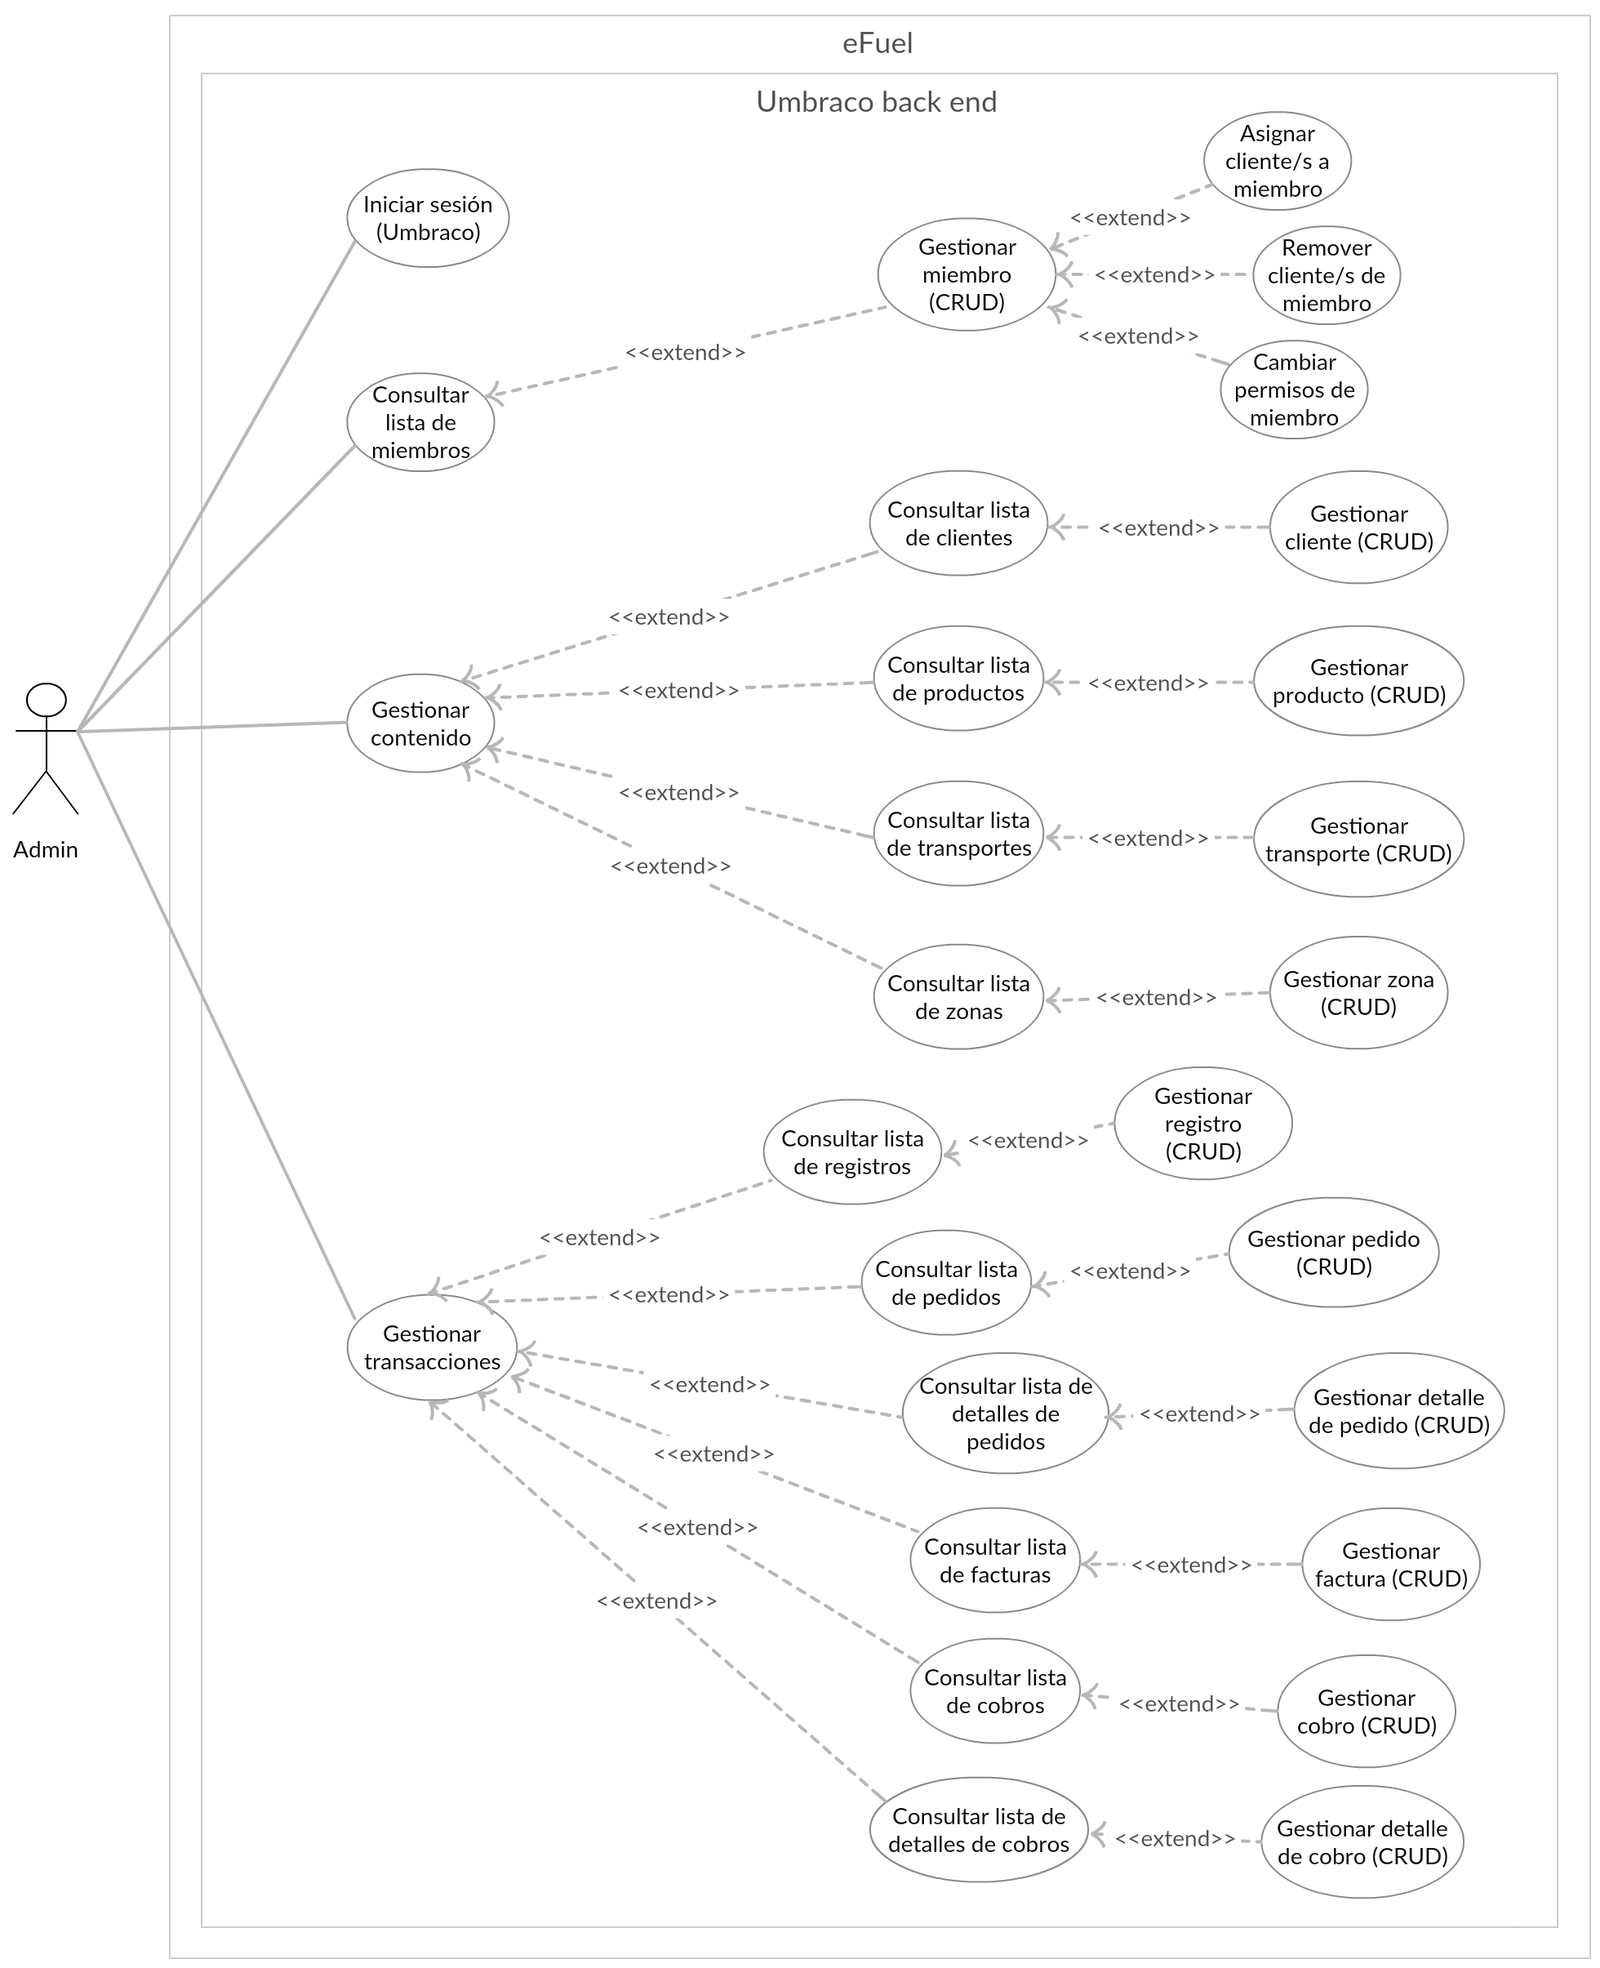
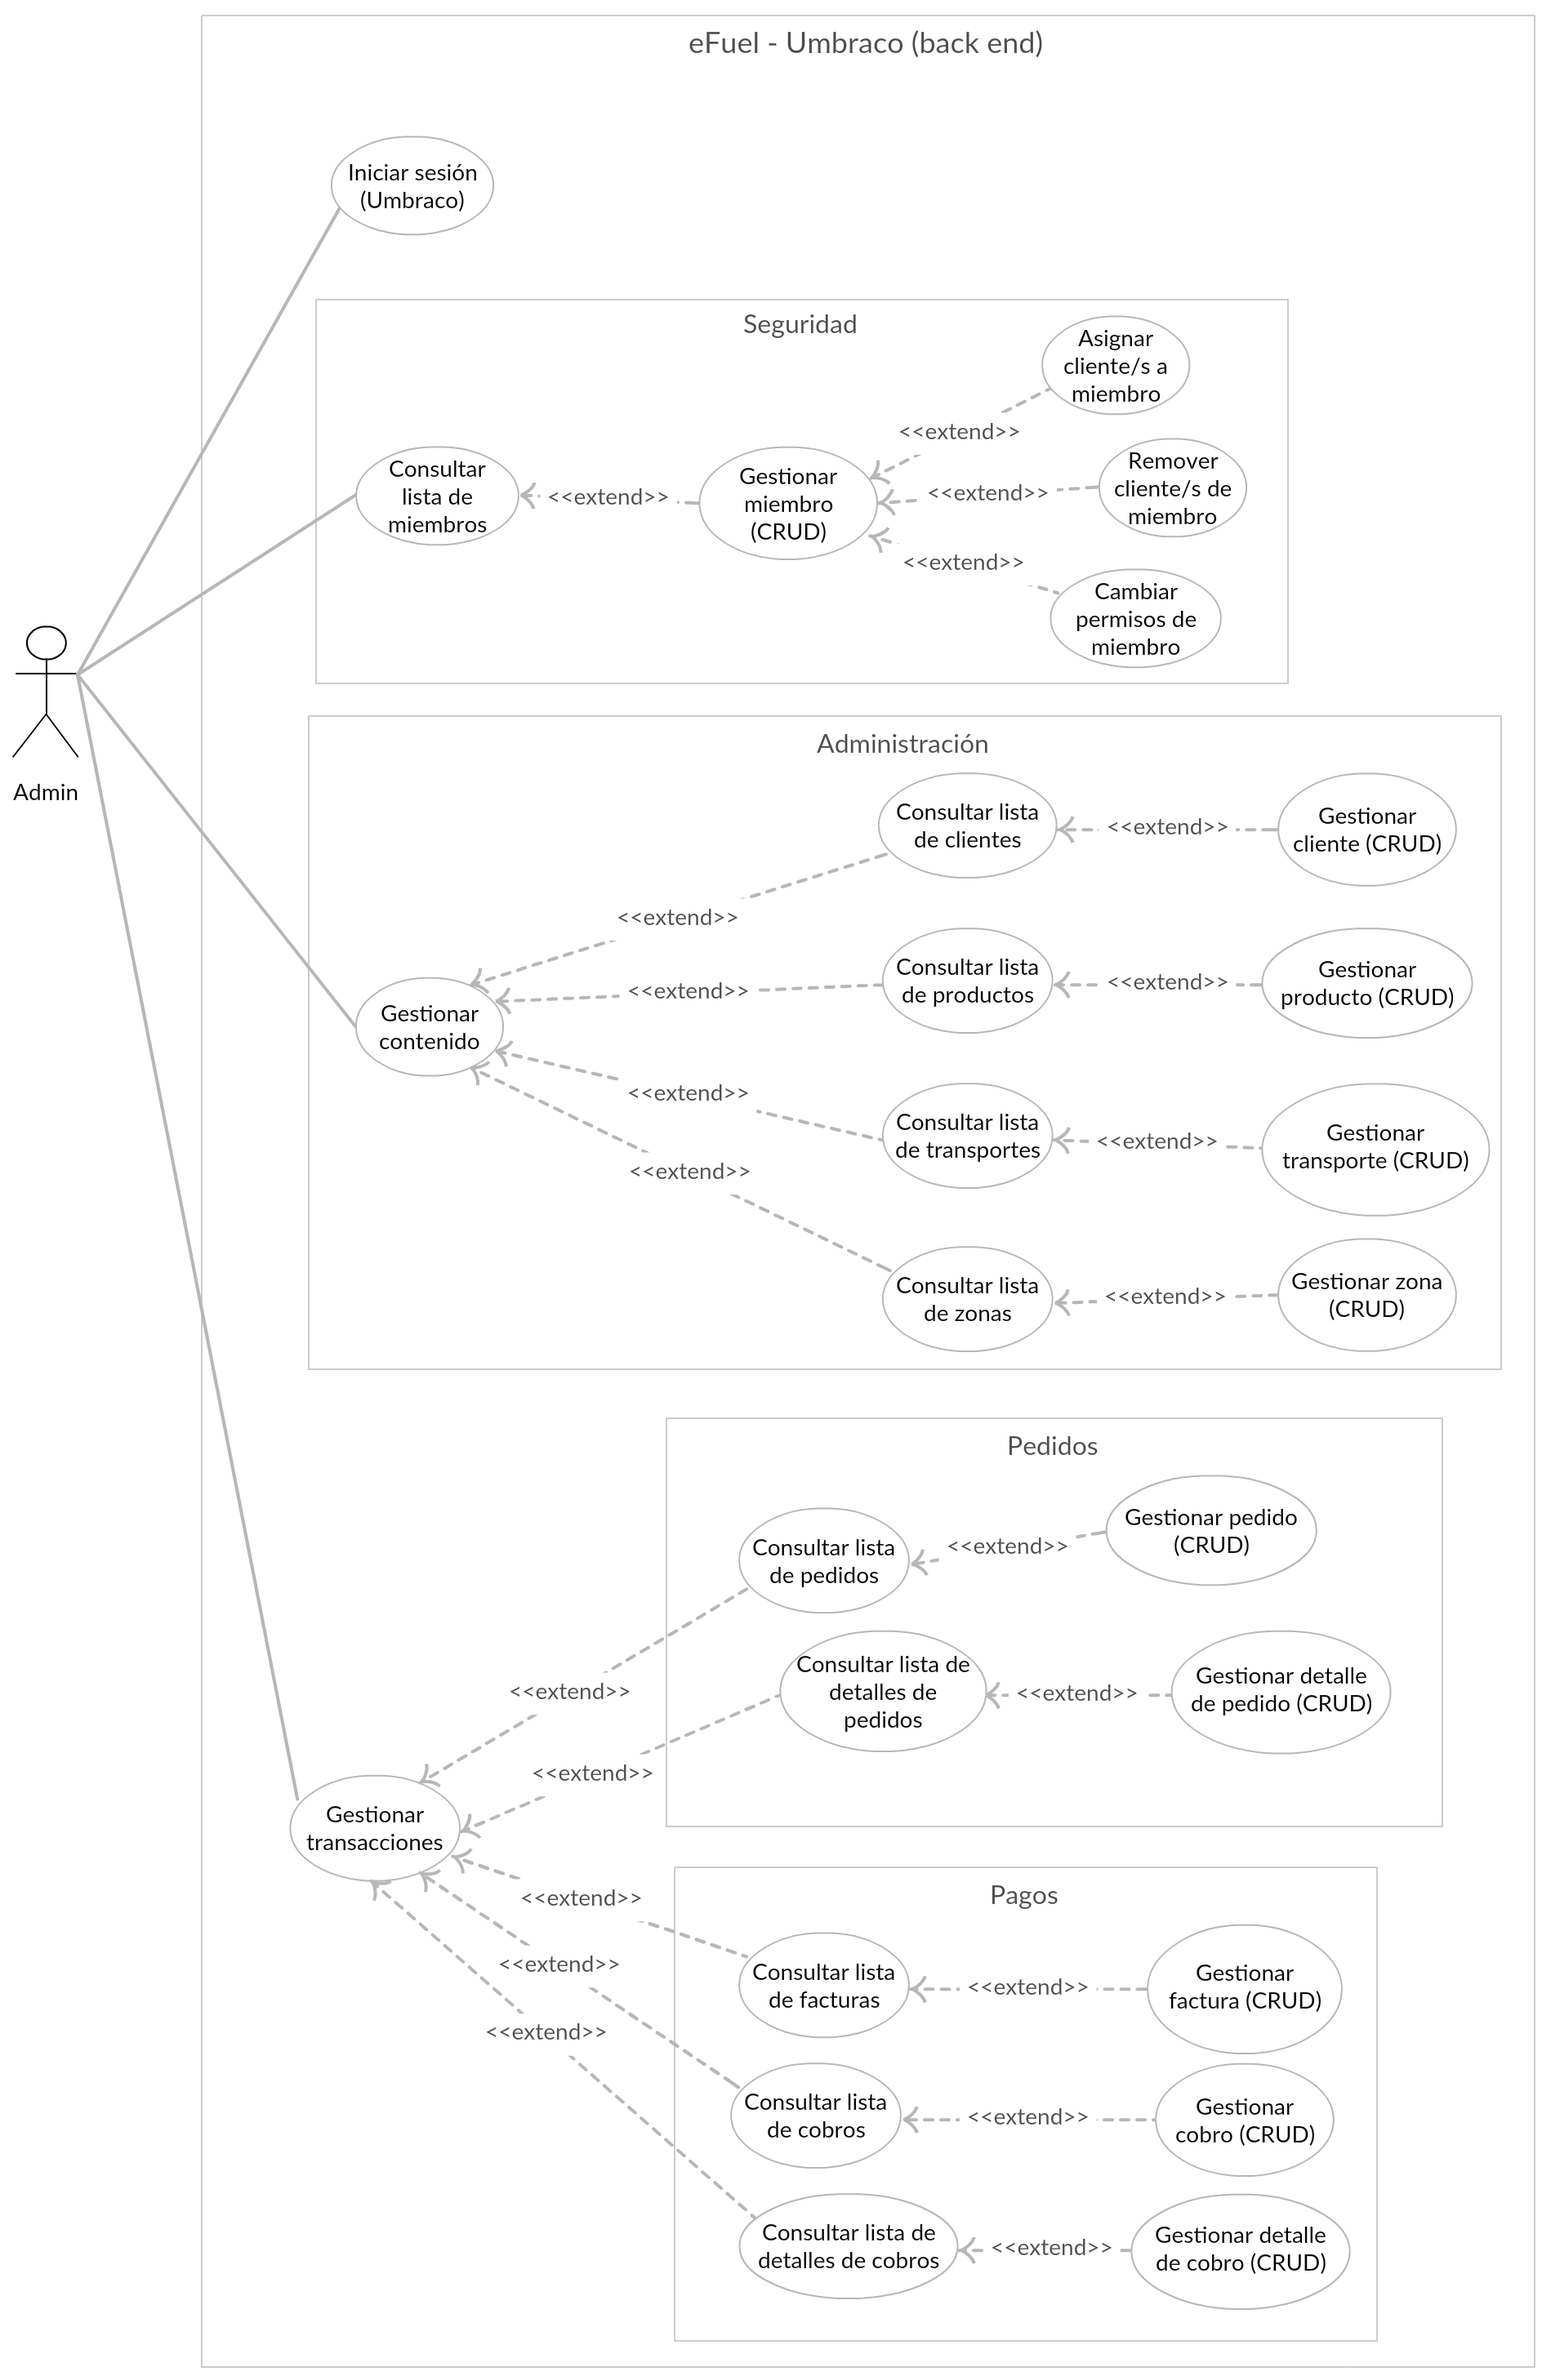
adelante

diff --git a/libro/capitulo-5.tex b/libro/capitulo-5.tex
@@ -1,5 +1,14 @@
 \chapter{Desarrollo} \label{development}
-En este capítulo se describe el desarrollo del proyecto. El desarrollo se divide en 7 fases: una fase de inducción donde el pasante se familiarizó con las herramientas y tecnologías necesarias para realizar el proyecto, 6 Iteraciones de desarrollo y una última Iteración de documentación del proyecto. Hay que destacar que la documentación de la arquitectura se realizó luego de culminado el desarrollo, al contrario de realizarla antes de empezar el desarrollo, que es lo que se considera como buena práctica. Esto generó algunos inconvenientes y retrasos que no permitieron la culminación del módulo de funcionalidad encargado de manejar los pagos y las facturas del sistema (ver la sección \ref{useCases} para los casos de uso desarrollados y no desarrollados). A continuación el detalle de cada fase e Iteración.
+En este capítulo se describe el desarrollo del proyecto. El desarrollo se divide en 7 fases: una fase de inducción donde el pasante se familiarizó con las herramientas y tecnologías necesarias para realizar el proyecto, 6 Iteraciones de desarrollo y una última Iteración de documentación del proyecto.
+
+Hay que destacar que la documentación de la arquitectura se realizó luego de culminado el desarrollo, al contrario de realizarla antes de empezar el desarrollo, que es lo que se considera como buena práctica. Esto generó algunos inconvenientes y retrasos que no permitieron la culminación del módulo de funcionalidad encargado de manejar los pagos y las facturas del sistema (ver la sección \ref{useCases} para los casos de uso desarrollados y no desarrollados). A continuación el detalle de cada fase e Iteración.
+
+\section{La aplicación web eFuel}
+El objetivo del proyecto es desarrollar una nueva versión de la aplicación web eFuel. La primera versión fue desarrollada hace más de 10 años utilizando Classic ASP, un motor de scripting para servidores cuya última versión fue desarrollada en el año 2000. Classic ASP fue reemplazada por ASP.NET en el año 2002, por esta razón se desea desarrollar una versión de la aplicación basada en tecnologías modernas como ASP.NET y Umbraco (que está basado en ASP.NET). La documentación de esta primera versión
+
+eFuel es una aplicación web que permite a las estaciones de servicio de combustible la colocación de sus pedidos al mayorista. La aplicación permite consultar información del estado de los pedidos (si fueron despachados y si fueron pagados), asociar facturas a pedidos y asociar pagos a facturas, también permite consultar información sobre otras entidades del dominio de negocio como clientes (estaciones de servicio), transportes disponibles según la zona del cliente, productos disponibles y sus precios. Además, permite importar y exportar información para intercambiar con el sistema ERP del mayorista y, de esta manera, servir como sistema de apoyo para este.
+
+A continuación se presenta una visión general de la estructura de eFuel.
 
 \section{Inducción}
 Esta fase tuvo una duración de 1 semana, el pasante realizó varios tutoriales y utilizó varios recursos (guías de Umbraco, videos de ASP.NET, entre otros) proporcionados por la empresa para inducir los conocimientos técnicos necesarios para llevar a cabo el proyecto. Las herramientas investigadas fueron: Umbraco, ASP.NET, SQL Server y Visual Studio.

diff --git a/anexos/das/vista_casos_de_uso.tex b/anexos/das/vista_casos_de_uso.tex
@@ -98,15 +98,29 @@
 
     \begin{figure}[H]
         \includegraphics[width=.9\textwidth,height=.9\textheight,keepaspectratio]{cu_admin.png}
-        \caption{Casos de Uso back end (\emph{admin})}
+        \caption{Casos de Uso Back end}
         \label{fig:cu_admin}
         \centering
     \end{figure}
 
     \begin{figure}[H]
-        \includegraphics[width=.9\textwidth,height=.9\textheight,keepaspectratio]{cu_customer_staff.png}
-        \caption{Casos de Uso front end (\emph{customer} y \emph{staff})}
-        \label{fig:cu_customer_staff}
+        \includegraphics[width=.9\textwidth,height=.9\textheight,keepaspectratio]{cu_customer_staff_pedidos.png}
+        \caption{Casos de Uso Front end - Módulo Pedidos}
+        \label{fig:cu_customer_staff_pedidos}
+        \centering
+    \end{figure}
+
+    \begin{figure}[H]
+        \includegraphics[width=.9\textwidth,height=.9\textheight,keepaspectratio]{cu_customer_staff_pagos.png}
+        \caption{Casos de Uso Front end - Módulo Pagos}
+        \label{fig:cu_customer_staff_pagos}
+        \centering
+    \end{figure}
+
+    \begin{figure}[H]
+        \includegraphics[width=.9\textwidth,height=.9\textheight,keepaspectratio]{cu_customer_staff_administracion.png}
+        \caption{Casos de Uso Front end - Módulo Administración}
+        \label{fig:cu_customer_staff_administracion}
         \centering
     \end{figure}
 

diff --git a/anexos/das/__latexindent_temp.tex b/anexos/das/__latexindent_temp.tex
@@ -1,4 +1,6 @@
-\begingroup
-\let\clearpage\relax
-\listoftables
-\endgroup
+\begin{figure}[H]
+        \includegraphics[width=.9\textwidth,height=.9\textheight,keepaspectratio]{cu_customer_staff_pedidos.png}
+        \caption{Casos de Uso front end - Módulo pedidos}
+        \label{fig:cu_customer_staff_pedidos}
+        \centering
+    \end{figure}

diff --git a/libro/informe-pasantia.tex b/libro/informe-pasantia.tex
@@ -25,7 +25,7 @@
 \usepackage{graphicx}
 \graphicspath{ {../imgs/} }
 
-\usepackage{bookmark}
+% \usepackage{bookmark}
 
 \autor{Ricardo Münch}
 \autori{R. Münch}
